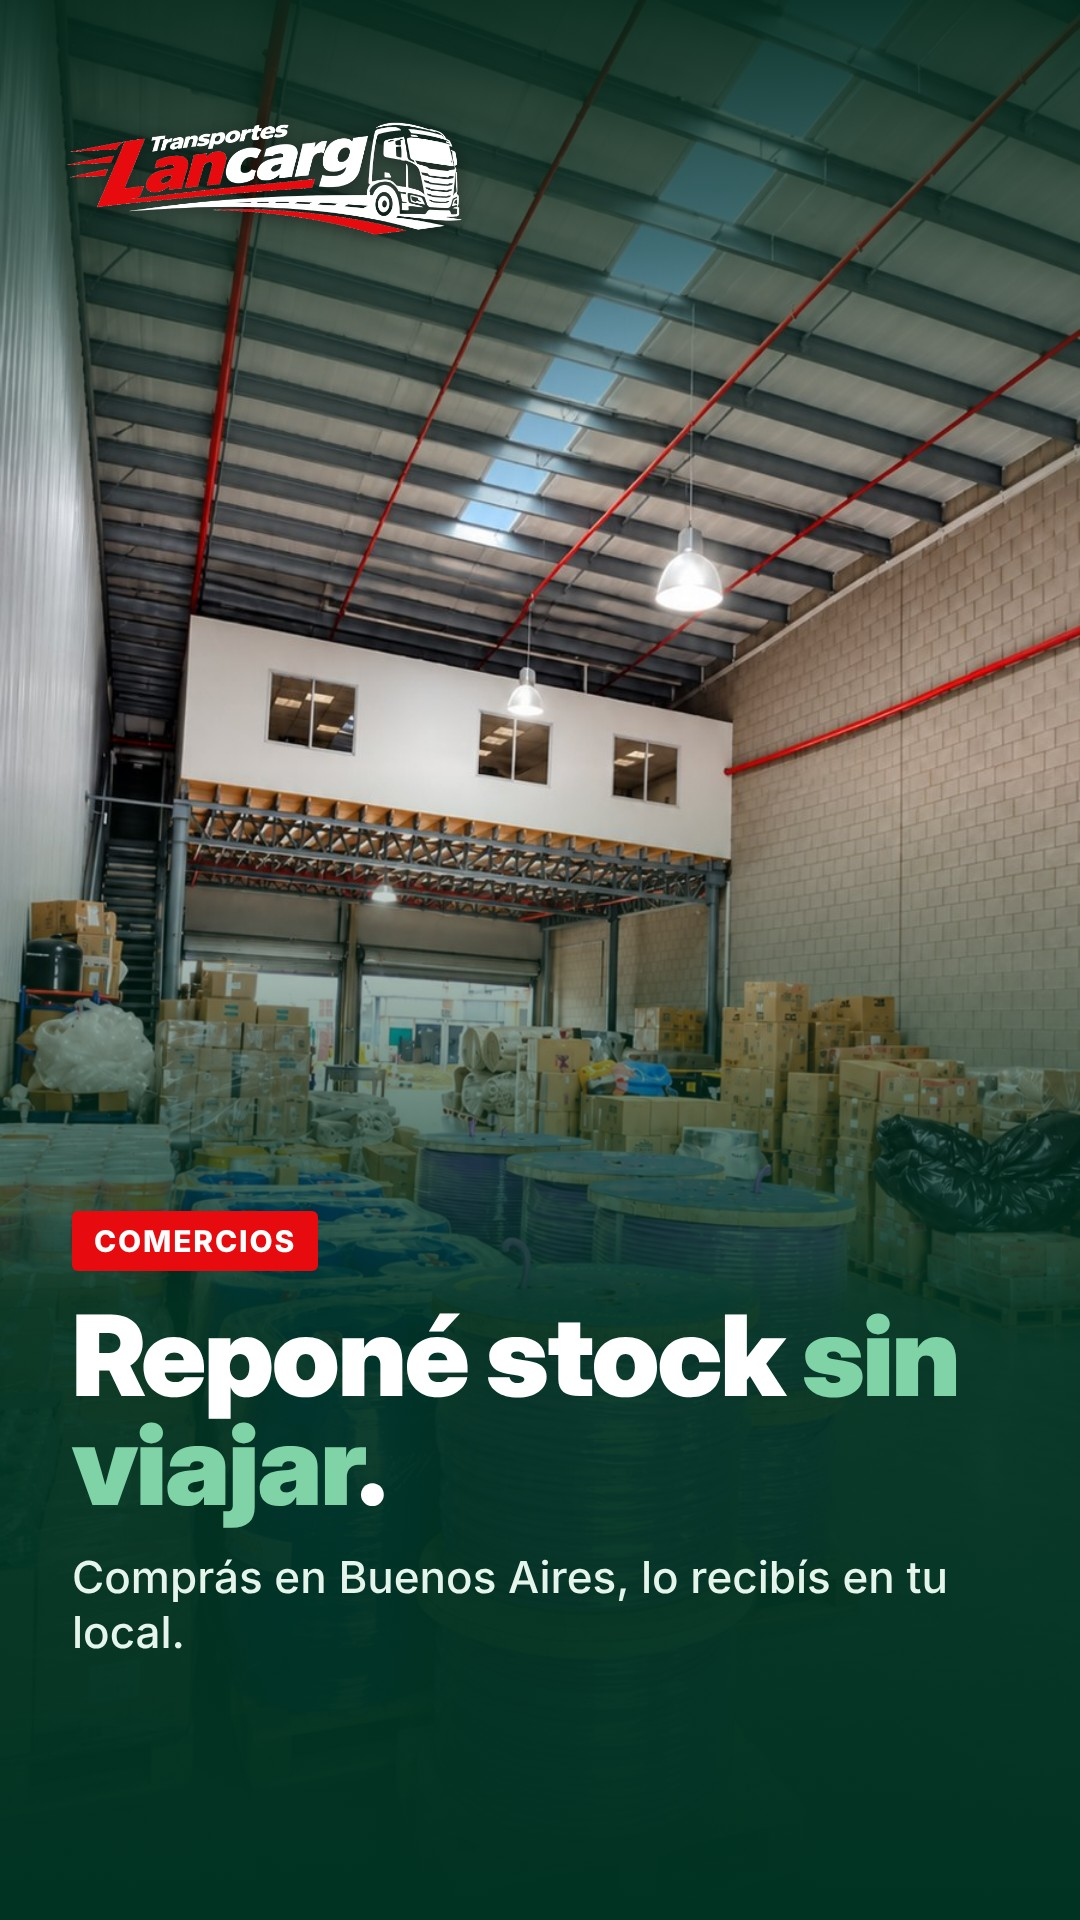
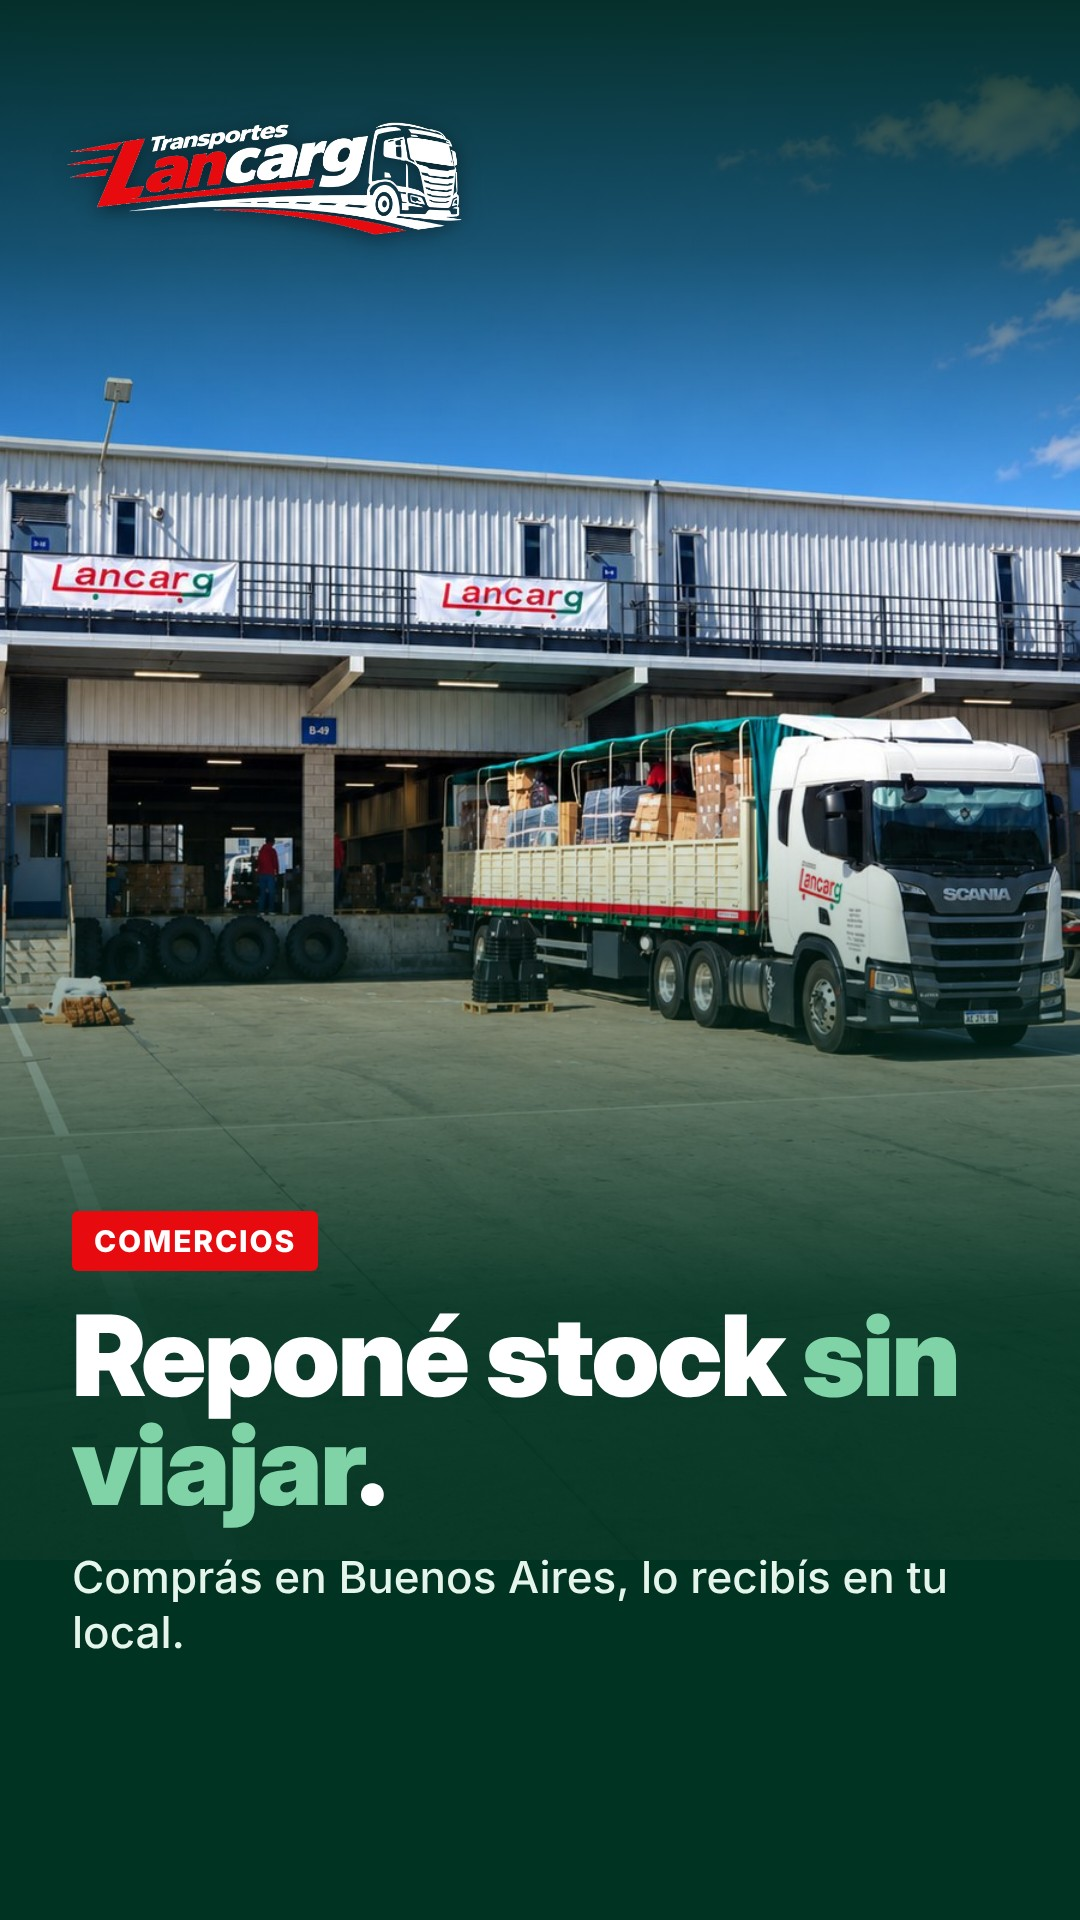
Historia 25/10: foto de camion cargado en muelle
Claude-Session: https://claude.ai/code/session_014Mzmm57TWdtJRgNHLty5PC

diff --git a/publicaciones/2026-10-25-historias/diseno.html b/publicaciones/2026-10-25-historias/diseno.html
@@ -34,4 +34,4 @@ h2{font-family:"Inter Display",Inter;font-weight:900;font-size:76px;line-height:
 .card .p{font-size:36px;font-weight:700;margin-top:10px;display:flex;align-items:center;gap:12px}
 .mr{display:flex;gap:30px;align-items:flex-start}
 .mito{font-size:44px;font-weight:800;color:#ffb3b5}
-</style></head><body><div class="slide story"><img class="bg" src="../../fotos/camion-scania-lancarg-bajo-cielo-azul.jpg" style="object-position:50% 40%"><div class="shade "></div><img class="logo" src="../../marca/logo-lancarg-sobre-verde.png"><div class="txt "><h1>Feliz domingo.</h1><div class="sub">Mañana arrancamos otra semana de envíos.</div></div></div><div class="slide story"><img class="bg" src="../../fotos/vertical/interior-deposito-bsas-con-mucha-mercaderia.jpg" style="object-position:50% 50%"><div class="shade "></div><img class="logo" src="../../marca/logo-lancarg-sobre-verde.png"><div class="txt "><div class="kicker">Comercios</div><h1>Reponé stock <em>sin viajar</em>.</h1><div class="sub">Comprás en Buenos Aires, lo recibís en tu local.</div></div></div></body></html>
+</style></head><body><div class="slide story"><img class="bg" src="../../fotos/camion-scania-lancarg-bajo-cielo-azul.jpg" style="object-position:50% 40%"><div class="shade "></div><img class="logo" src="../../marca/logo-lancarg-sobre-verde.png"><div class="txt "><h1>Feliz domingo.</h1><div class="sub">Mañana arrancamos otra semana de envíos.</div></div></div><div class="slide story"><img class="bg" src="../../fotos/vertical/camion-scania-lancarg-en-muelle-logistico.jpg" style="object-position:50% 50%;transform:translateY(-360px)"><div class="shade "></div><img class="logo" src="../../marca/logo-lancarg-sobre-verde.png"><div class="txt "><div class="kicker">Comercios</div><h1>Reponé stock <em>sin viajar</em>.</h1><div class="sub">Comprás en Buenos Aires, lo recibís en tu local.</div></div></div></body></html>
